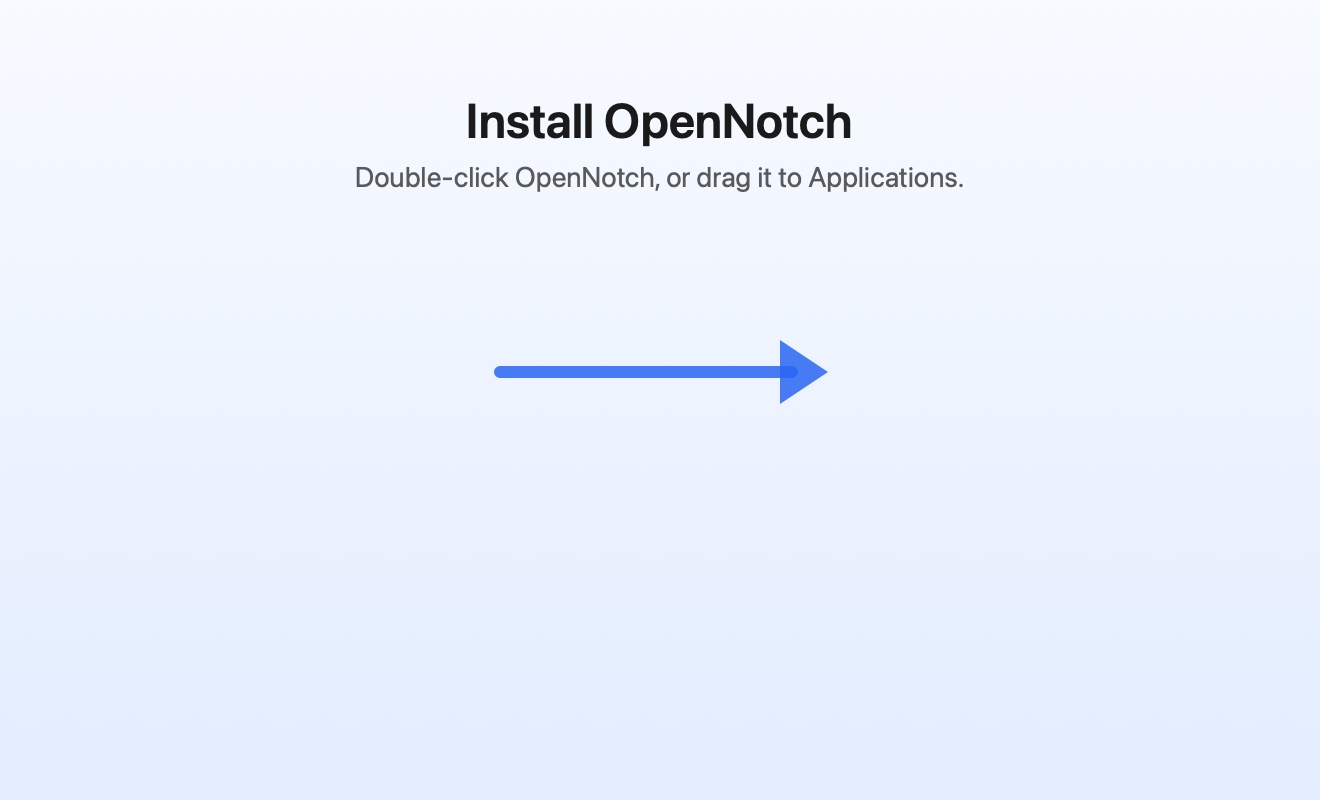
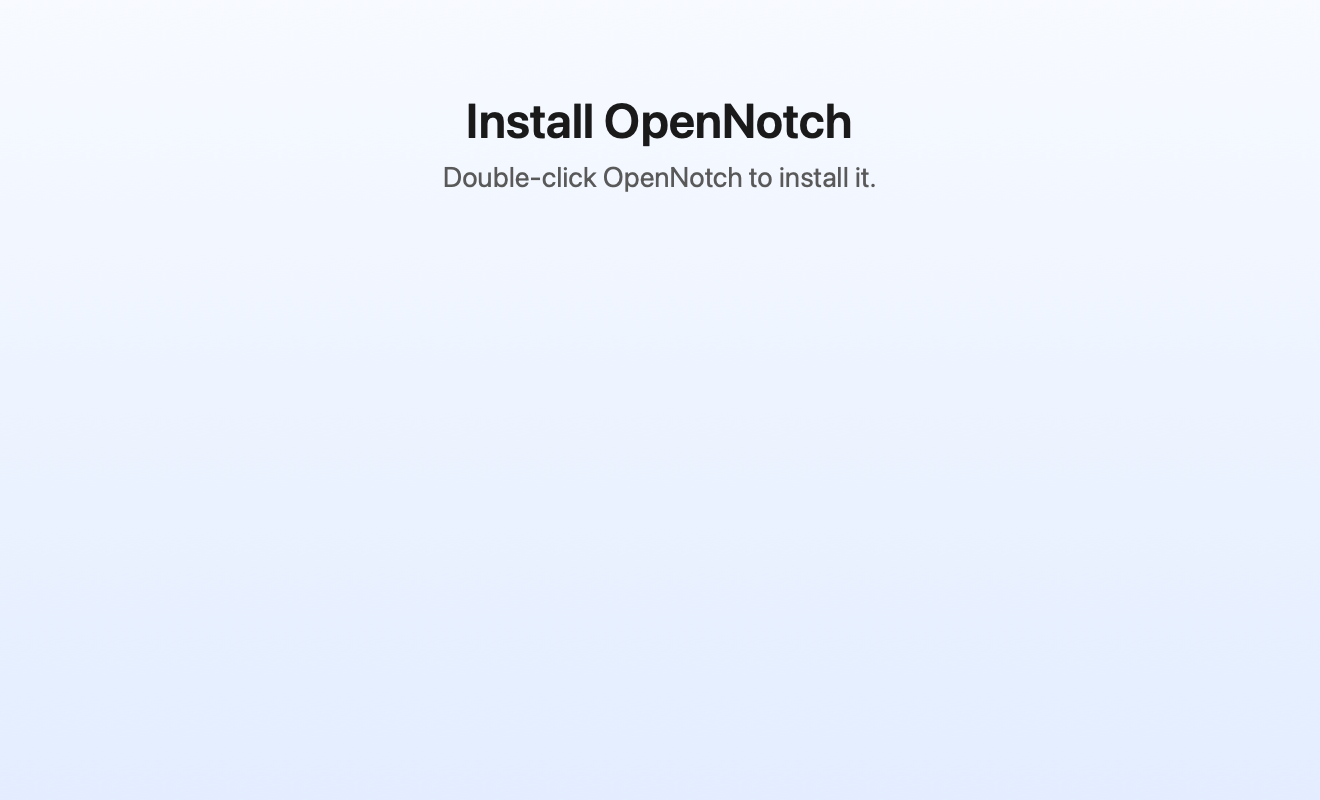
Installer: double-click only, so every install opens itself
macOS never launches an app after a drag into Applications; double-clicking the app in the
disk image runs Installer.swift, which installs it and opens it.

Changed region(s): [[0.2795, 0.1875, 0.7455, 0.25], [0.3727, 0.4375, 0.6212, 0.5]]

diff --git a/scripts/make-dmg-background.swift b/scripts/make-dmg-background.swift
@@ -1,6 +1,7 @@
-// Renders the disk image window background (Resources/dmg-background.png and @2x): a title, an
-// arrow from the app to Applications, and the one-line instructions. Icons sit at x=165 and x=495,
-// y=190 (from the top) in a 660×400 window; scripts/dmg-settings.py places them there.
+// Renders the disk image window background (Resources/dmg-background.png and @2x): a title and the
+// one-line instruction above a single app icon at x=330, y=190 (from the top) in a 660×400 window;
+// scripts/dmg-settings.py places it there. There's deliberately no Applications folder to drag onto:
+// macOS never opens an app after a drag, but double-clicking installs it and opens it (Installer.swift).
 // Usage: swiftc scripts/make-dmg-background.swift -o /tmp/make-dmg-bg && /tmp/make-dmg-bg <repo root>
 import AppKit
 
@@ -32,27 +33,8 @@ func render(scale: CGFloat) -> Data {
     // Everything important sits in the top two-thirds: on macOS 26, Finder draws its toolbar and
     // path bar inside disk image windows, which covers the bottom of the picture.
     text("Install OpenNotch", size: 24, weight: .semibold, color: NSColor(white: 0.1, alpha: 1), top: 46)
-    text("Double-click OpenNotch, or drag it to Applications.", size: 14, weight: .regular,
+    text("Double-click OpenNotch to install it.", size: 14, weight: .regular,
          color: NSColor(white: 0.35, alpha: 1), top: 80)
-
-    // Arrow from the app icon to the Applications folder.
-    let accent = NSColor(red: 0.16, green: 0.40, blue: 0.95, alpha: 1)
-    let start = NSPoint(x: 250 * u, y: y(186)), end = NSPoint(x: 410 * u, y: y(186))
-    let shaft = NSBezierPath()
-    shaft.move(to: start)
-    shaft.line(to: NSPoint(x: end.x - 14 * u, y: end.y))
-    shaft.lineWidth = 6 * u
-    shaft.lineCapStyle = .round
-    accent.withAlphaComponent(0.85).setStroke()
-    shaft.stroke()
-    let head = NSBezierPath()
-    head.move(to: NSPoint(x: end.x + 4 * u, y: end.y))
-    head.line(to: NSPoint(x: end.x - 20 * u, y: end.y + 16 * u))
-    head.line(to: NSPoint(x: end.x - 20 * u, y: end.y - 16 * u))
-    head.close()
-    accent.withAlphaComponent(0.85).setFill()
-    head.fill()
-
 
     NSGraphicsContext.restoreGraphicsState()
     return rep.representation(using: .png, properties: [.compressionFactor: 1.0])!

diff --git a/scripts/dmg-settings.py b/scripts/dmg-settings.py
@@ -8,13 +8,15 @@ name = os.path.basename(app)
 
 format = "UDZO"
 files = [app]
-symlinks = {"Applications": "/Applications"}
+# No Applications shortcut on purpose: double-clicking the app installs and opens it (Installer.swift),
+# while a drag into Applications would leave it closed.
+symlinks = {}
 
-# Matches scripts/make-dmg-background.swift: icons centred at x=165/495, y=190 in a 660x400 window.
+# Matches scripts/make-dmg-background.swift: the icon centred at x=330, y=190 in a 660x400 window.
 background = defines["background"]
 window_rect = ((200, 140), (660, 400))
-icon_locations = {name: (165, 190), "Applications": (495, 190)}
-icon_size = 112
+icon_locations = {name: (330, 190)}
+icon_size = 128
 text_size = 13
 default_view = "icon-view"
 show_status_bar = False
